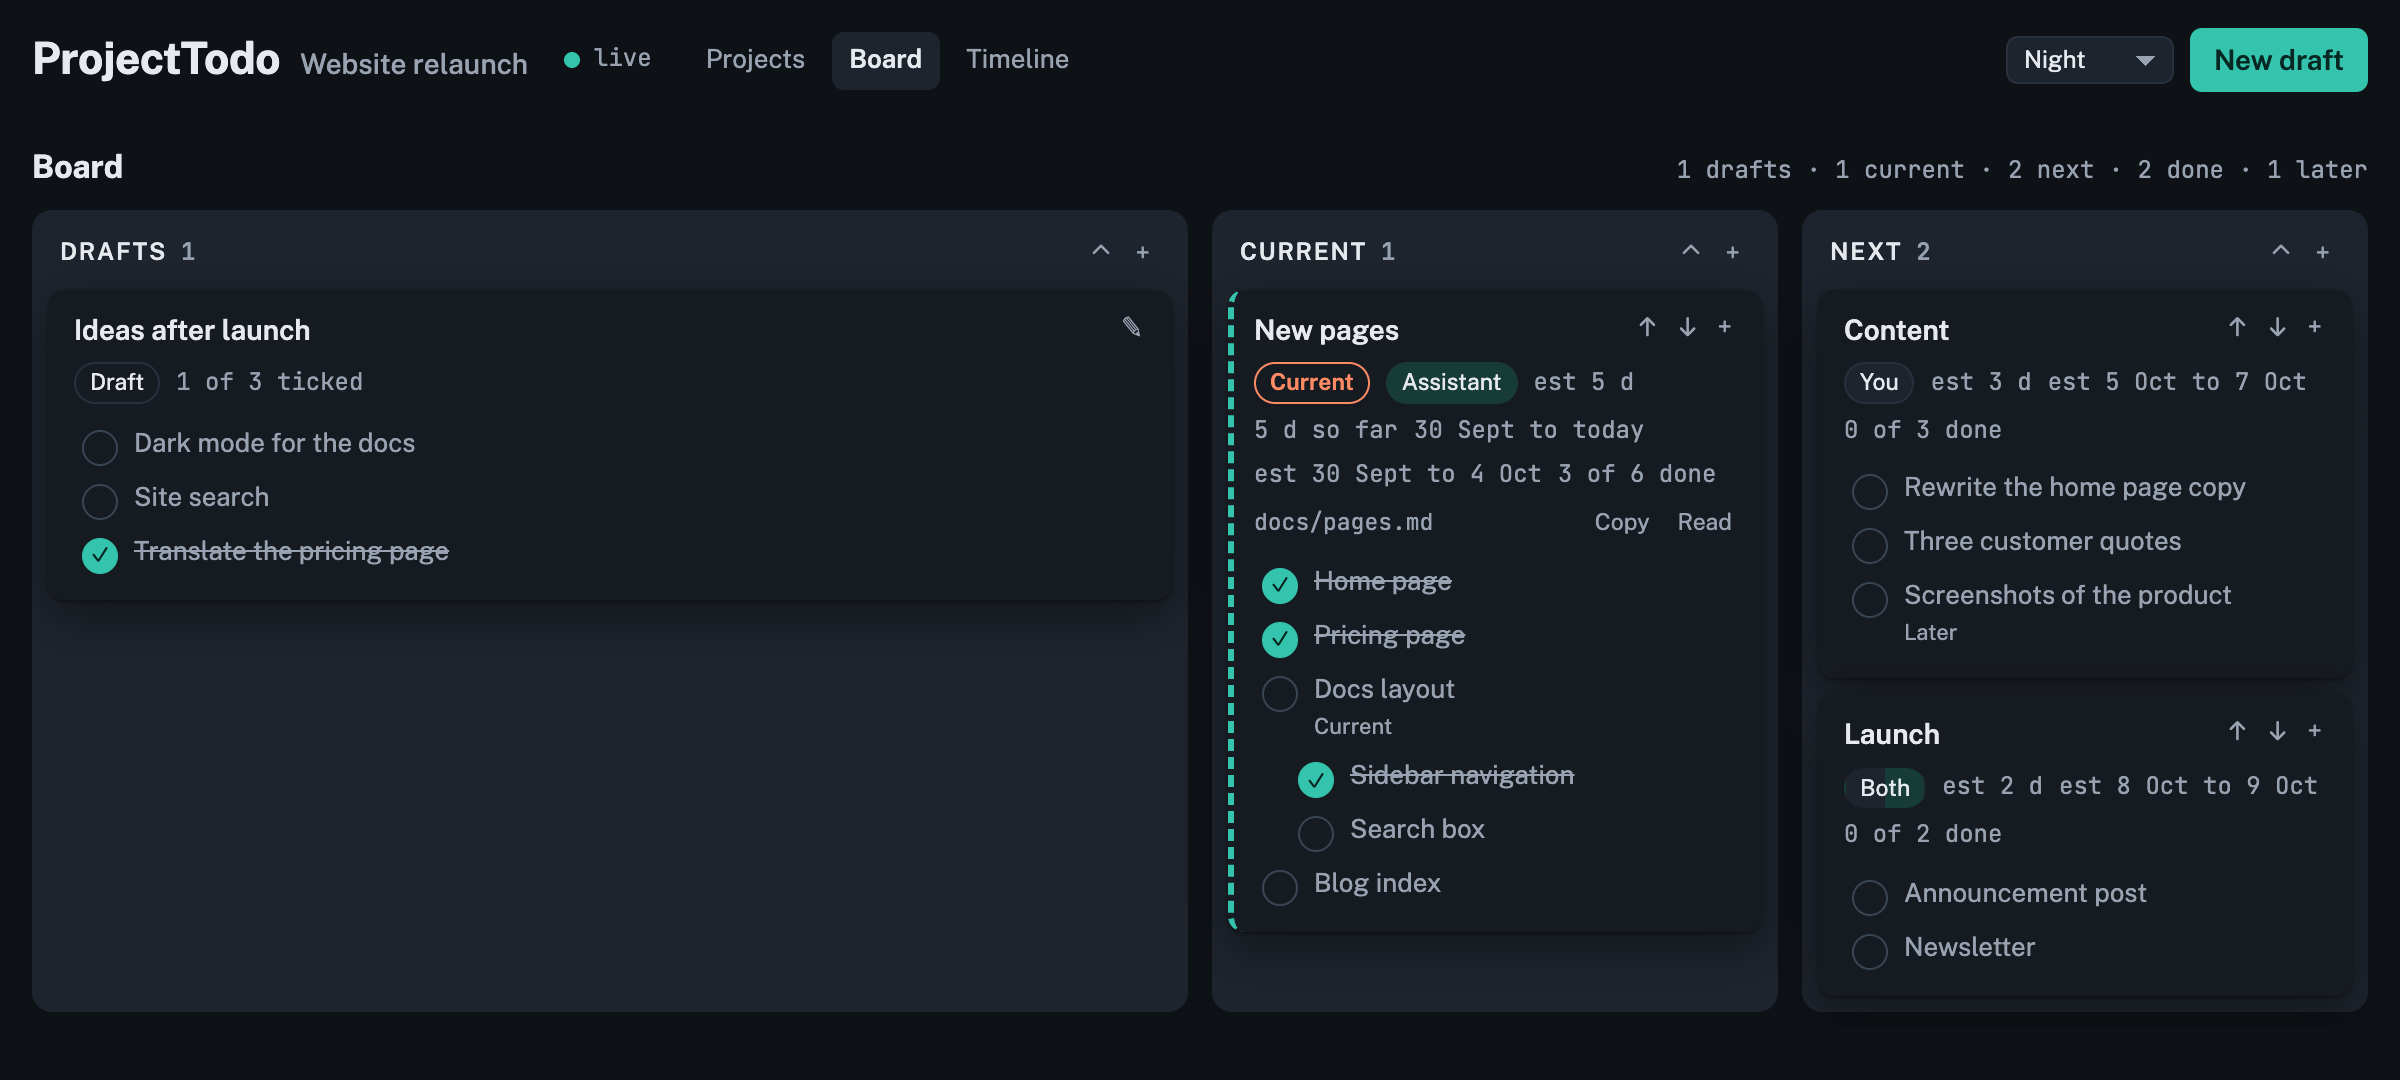
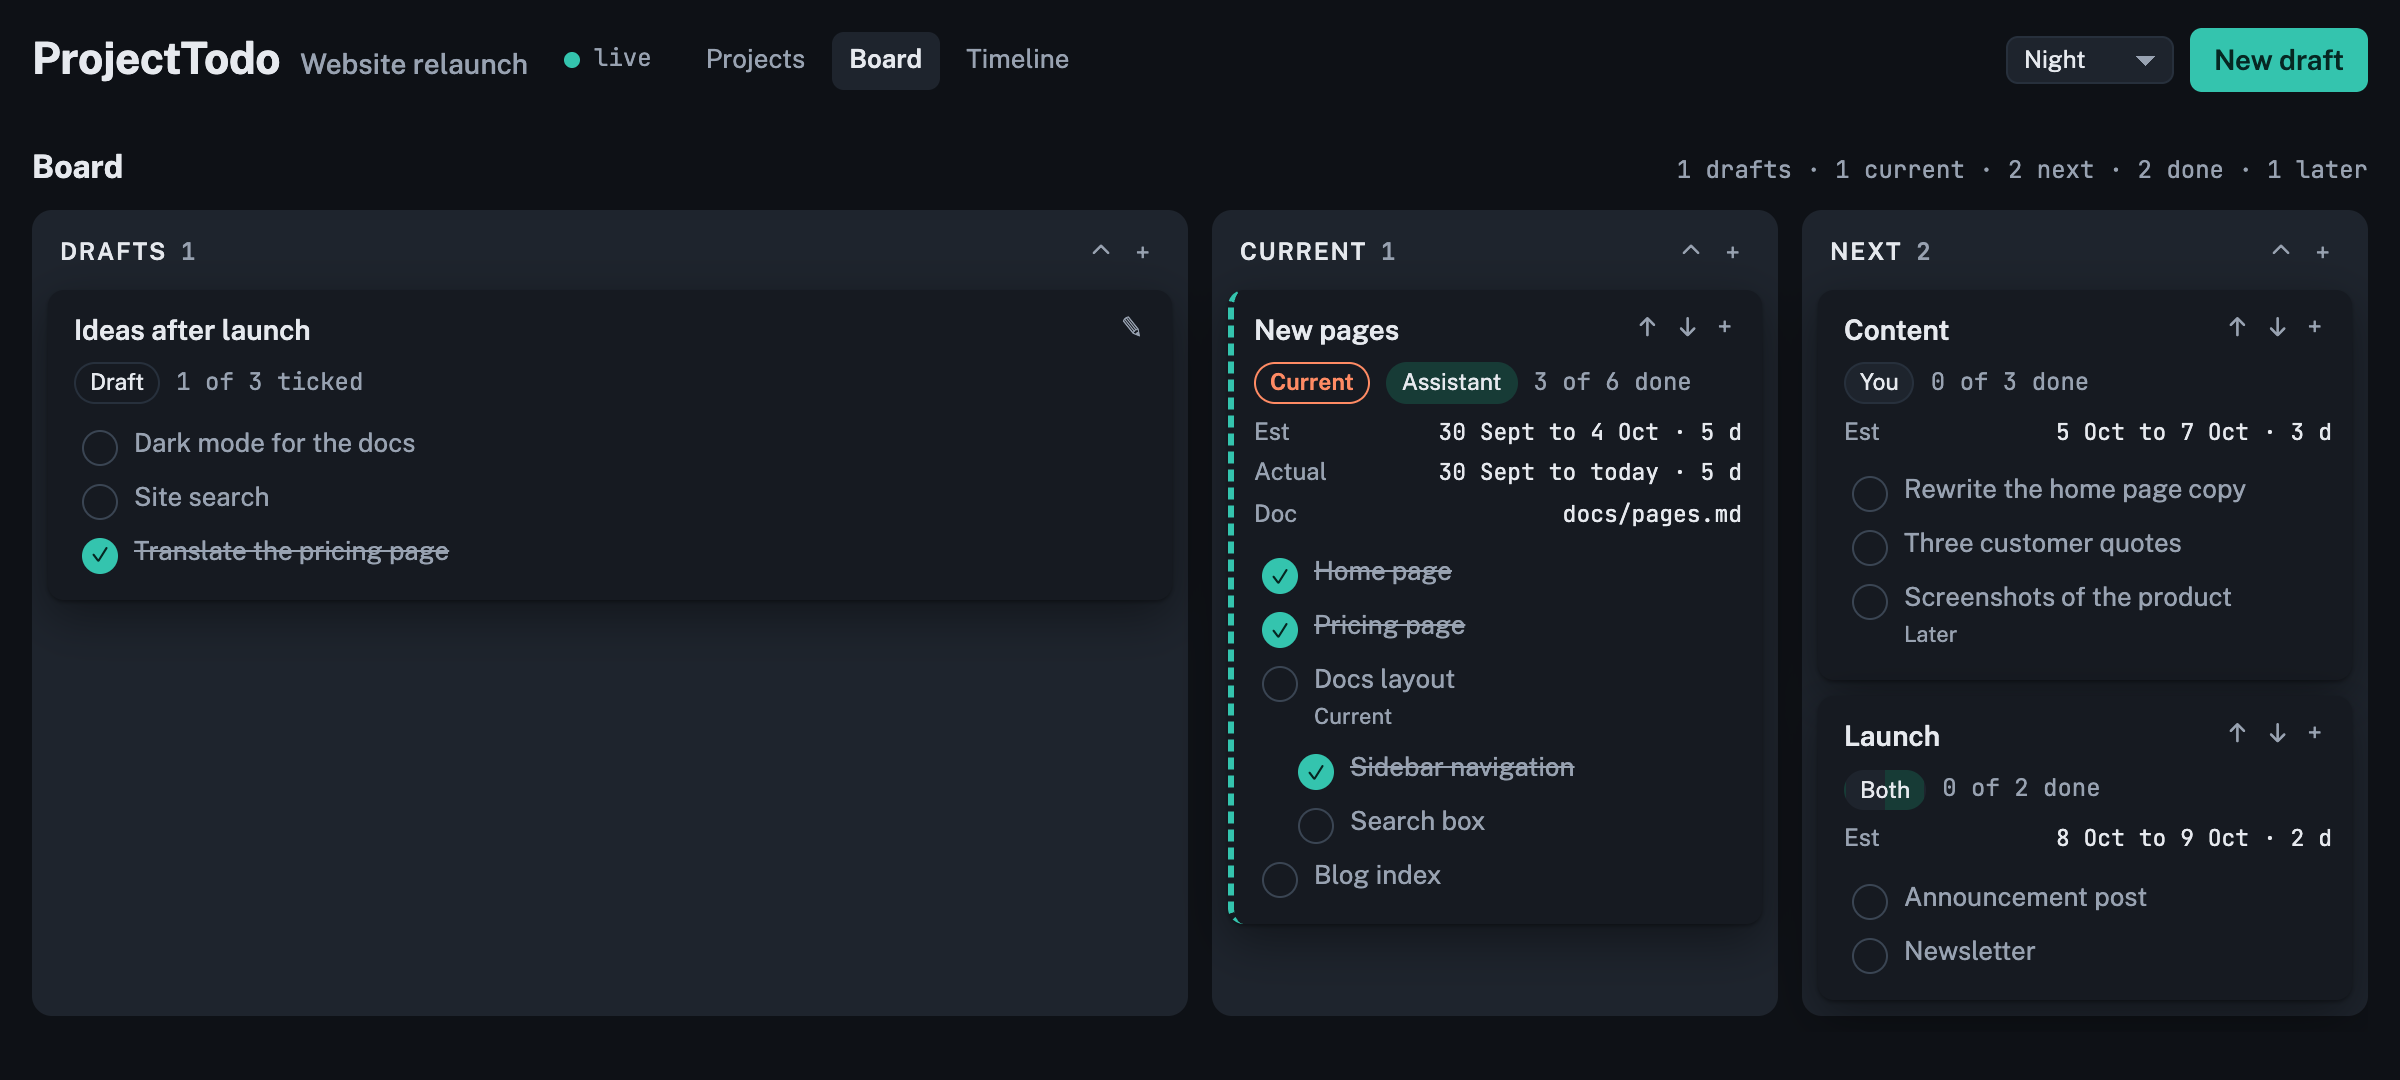
Enhance to-do completion logic to prevent marking a to-do as done if it has open children. Update README to reflect this behavior and improve API documentation. Revise HTML for fact row display, enhancing clarity and organization of to-do details. Retake screenshots for updated visuals.

diff --git a/public/index.html b/public/index.html
@@ -271,9 +271,14 @@ section { margin-top: 26px; }
 .chip.owner-user { background: var(--surface-2); }
 .chip.current { color: var(--today); border-color: var(--today); font-weight: 600; }
 .chip.owner-both { background: linear-gradient(90deg, var(--surface-2) 50%, var(--accent-soft) 50%); border-color: transparent; }
-.docline { display: flex; align-items: center; gap: 4px; margin-top: 6px; font-family: var(--font-mono); font-size: 11.5px; color: var(--muted); min-width: 0; }
-.docline code { overflow: hidden; text-overflow: ellipsis; white-space: nowrap; min-width: 0; flex: 1; }
-.docline .icon-btn { font-size: 11.5px; font-family: var(--font-ui); }
+/* Fact rows: the name on the left, the value on the right, one fact per line. */
+.facts { margin-top: 6px; display: flex; flex-direction: column; gap: 3px; }
+.fact { display: flex; align-items: baseline; justify-content: space-between; gap: 12px; font-size: 12px; min-width: 0; }
+.fact-k { color: var(--muted); flex: none; }
+.fact-v { font-family: var(--font-mono); font-size: 11.5px; color: var(--fg); min-width: 0; text-align: right; overflow-wrap: anywhere; font-variant-numeric: tabular-nums; }
+.fact-v .part { white-space: nowrap; }
+a.fact-v { text-decoration: none; }
+a.fact-v:hover, a.fact-v:focus-visible { text-decoration: underline; }
 .empty { color: var(--muted); font-size: 13px; padding: 10px 6px; }
 
 /* Timeline */
@@ -837,15 +842,17 @@ svg.tl { display: block; font-family: var(--font-ui); }
     }
     return { est, actual, open };
   }
+  // A fact row: its name on the left, the value on the right.
+  function factRow(name, parts) {
+    const value = el("span", { class: "fact-v" });
+    parts.forEach((p, i) => { if (i) value.append(" · "); value.append(el("span", { class: "part", text: p })); });
+    return el("div", { class: "fact" }, el("span", { class: "fact-k", text: name }), value);
+  }
+  // The Doc row: the path opens the file in the drawer.
   function docLine(path) {
-    const line = el("div", { class: "docline" });
-    const code = el("code", { text: path, title: path });
-    line.append(code);
-    line.append(el("button", { class: "icon-btn", type: "button", title: "Copy the path to the clipboard", onclick: e => { e.stopPropagation(); copyText(path, code); } }, "Copy"));
-    if (path) {
-      line.append(el("button", { class: "icon-btn", type: "button", title: "Read this file from the repository", onclick: e => { e.stopPropagation(); openDrawer(path); } }, "Read"));
-    }
-    return line;
+    return el("div", { class: "fact" },
+      el("span", { class: "fact-k", text: "Doc" }),
+      el("a", { class: "fact-v doc-v", href: "#", text: path, title: `Open ${path}`, onclick: e => { e.preventDefault(); e.stopPropagation(); openDrawer(path); } }));
   }
   // A card folds to one row. Each card can be set on its own; a lane's arrow sets every card in it.
   const isFolded = (id, laneKey) => (state.foldCard.get(id) || state.foldLane.get(laneKey) || (laneKey === "done" || laneKey === "deferred" ? "closed" : "open")) === "closed";
@@ -1649,20 +1656,26 @@ svg.tl { display: block; font-family: var(--font-ui); }
     }
     card.append(top);
     if (compact) return card;
-    // the facts
+    // the chips, then one labelled row per fact: estimate, actual, doc
     const meta = el("div", { class: "meta" });
     const proj = currentProject();
     if (proj && proj.current_id === it.id) meta.append(el("span", { class: "chip current", text: "Current" }));
     if (it.owner && OWNER_LABEL[it.owner]) meta.append(el("span", { class: `chip owner-${it.owner}`, text: OWNER_LABEL[it.owner] }));
     else if (isDraft) meta.append(el("span", { class: "chip owner-none", text: "Draft" }));
-    const d = durations(it);
-    if (d.est !== null) meta.append(el("span", { text: `est ${d.est} d` }));
-    if (d.actual !== null) meta.append(el("span", { text: d.open ? `${d.actual} d so far` : `${d.actual} d` }));
-    if (it.actual_start || it.actual_done) meta.append(el("span", { text: rangeText(it.actual_start, it.actual_done, st === "doing" ? "today" : "") }));
-    if (it.planned_start || it.planned_end) meta.append(el("span", { text: "est " + rangeText(it.planned_start, it.planned_end) }));
     if (lines.length) meta.append(el("span", { class: "mono", text: `${done} of ${lines.length} ${isDraft ? "ticked" : "done"}` }));
     if (meta.childNodes.length) card.append(meta);
-    if (it.doc) card.append(docLine(String(it.doc)));
+    const d = durations(it);
+    const estParts = [];
+    if (it.planned_start || it.planned_end) estParts.push(rangeText(it.planned_start, it.planned_end));
+    if (d.est !== null) estParts.push(`${d.est} d`);
+    const actualParts = [];
+    if (it.actual_start || it.actual_done) actualParts.push(rangeText(it.actual_start, it.actual_done, st === "doing" ? "today" : ""));
+    if (d.actual !== null) actualParts.push(`${d.actual} d`);
+    const facts = el("div", { class: "facts" });
+    if (estParts.length) facts.append(factRow("Est", estParts));
+    if (actualParts.length) facts.append(factRow("Actual", actualParts));
+    if (it.doc) facts.append(docLine(String(it.doc)));
+    if (facts.childNodes.length) card.append(facts);
     // everything under it, as a list
     if (lines.length) {
       const list = el("div", { class: "notes" });

diff --git a/README.md b/README.md
@@ -110,8 +110,9 @@ created_at, updated_at (ISO 8601), version (kept by the server)
 
 Dropping a card in Current sets `actual_start` when empty; in Done sets `actual_done` (for a
 main to-do, the end of its last finished child) and `actual_start` when empty; leaving
-Done clears `actual_done`. A to-do can be set done only when everything under it is done
-(the page checks this on drops, in the editor and on the ticks; the API does not).
+Done clears `actual_done`. A to-do can be set done only when everything under it is done:
+the page checks this on drops, in the editor and on the ticks, and the server refuses such
+a write with 409 `children_open`.
 A main to-do dropped in Next or Current with no estimated dates
 gets them: the day after the estimated end of the main to-do before it, lasting its
 estimate in days (one day if none). Deleting a parent moves its children up one level.
@@ -126,7 +127,7 @@ estimate in days (one day if none). Deleting a parent moves its children up one 
 | `DELETE /api/projects/{id}` | `{if_version}` | removes it and its to-dos |
 | `GET /api/todos?project={id}` | | `{todos}` |
 | `POST /api/todos` | `{data: {id, project_id, title, …}}` | creates a row (409 if the id exists) |
-| `PATCH /api/todos/{id}` | `{if_version, data: {…}}` | merges fields; 409 `version_mismatch` when the row changed meanwhile |
+| `PATCH /api/todos/{id}` | `{if_version, data: {…}}` | merges fields; 409 `version_mismatch` when the row changed meanwhile, 409 `children_open` when it would be done with open to-dos under it |
 | `DELETE /api/todos/{id}` | `{if_version}` | removes a row |
 | `POST /api/batch` | `{writes: [{op: set\|update\|delete, id, data, if_version}]}` | all or nothing |
 | `GET /api/doc?path=docs/x.md` | | `{path, modified, content}` for a markdown file under the docs folder |
